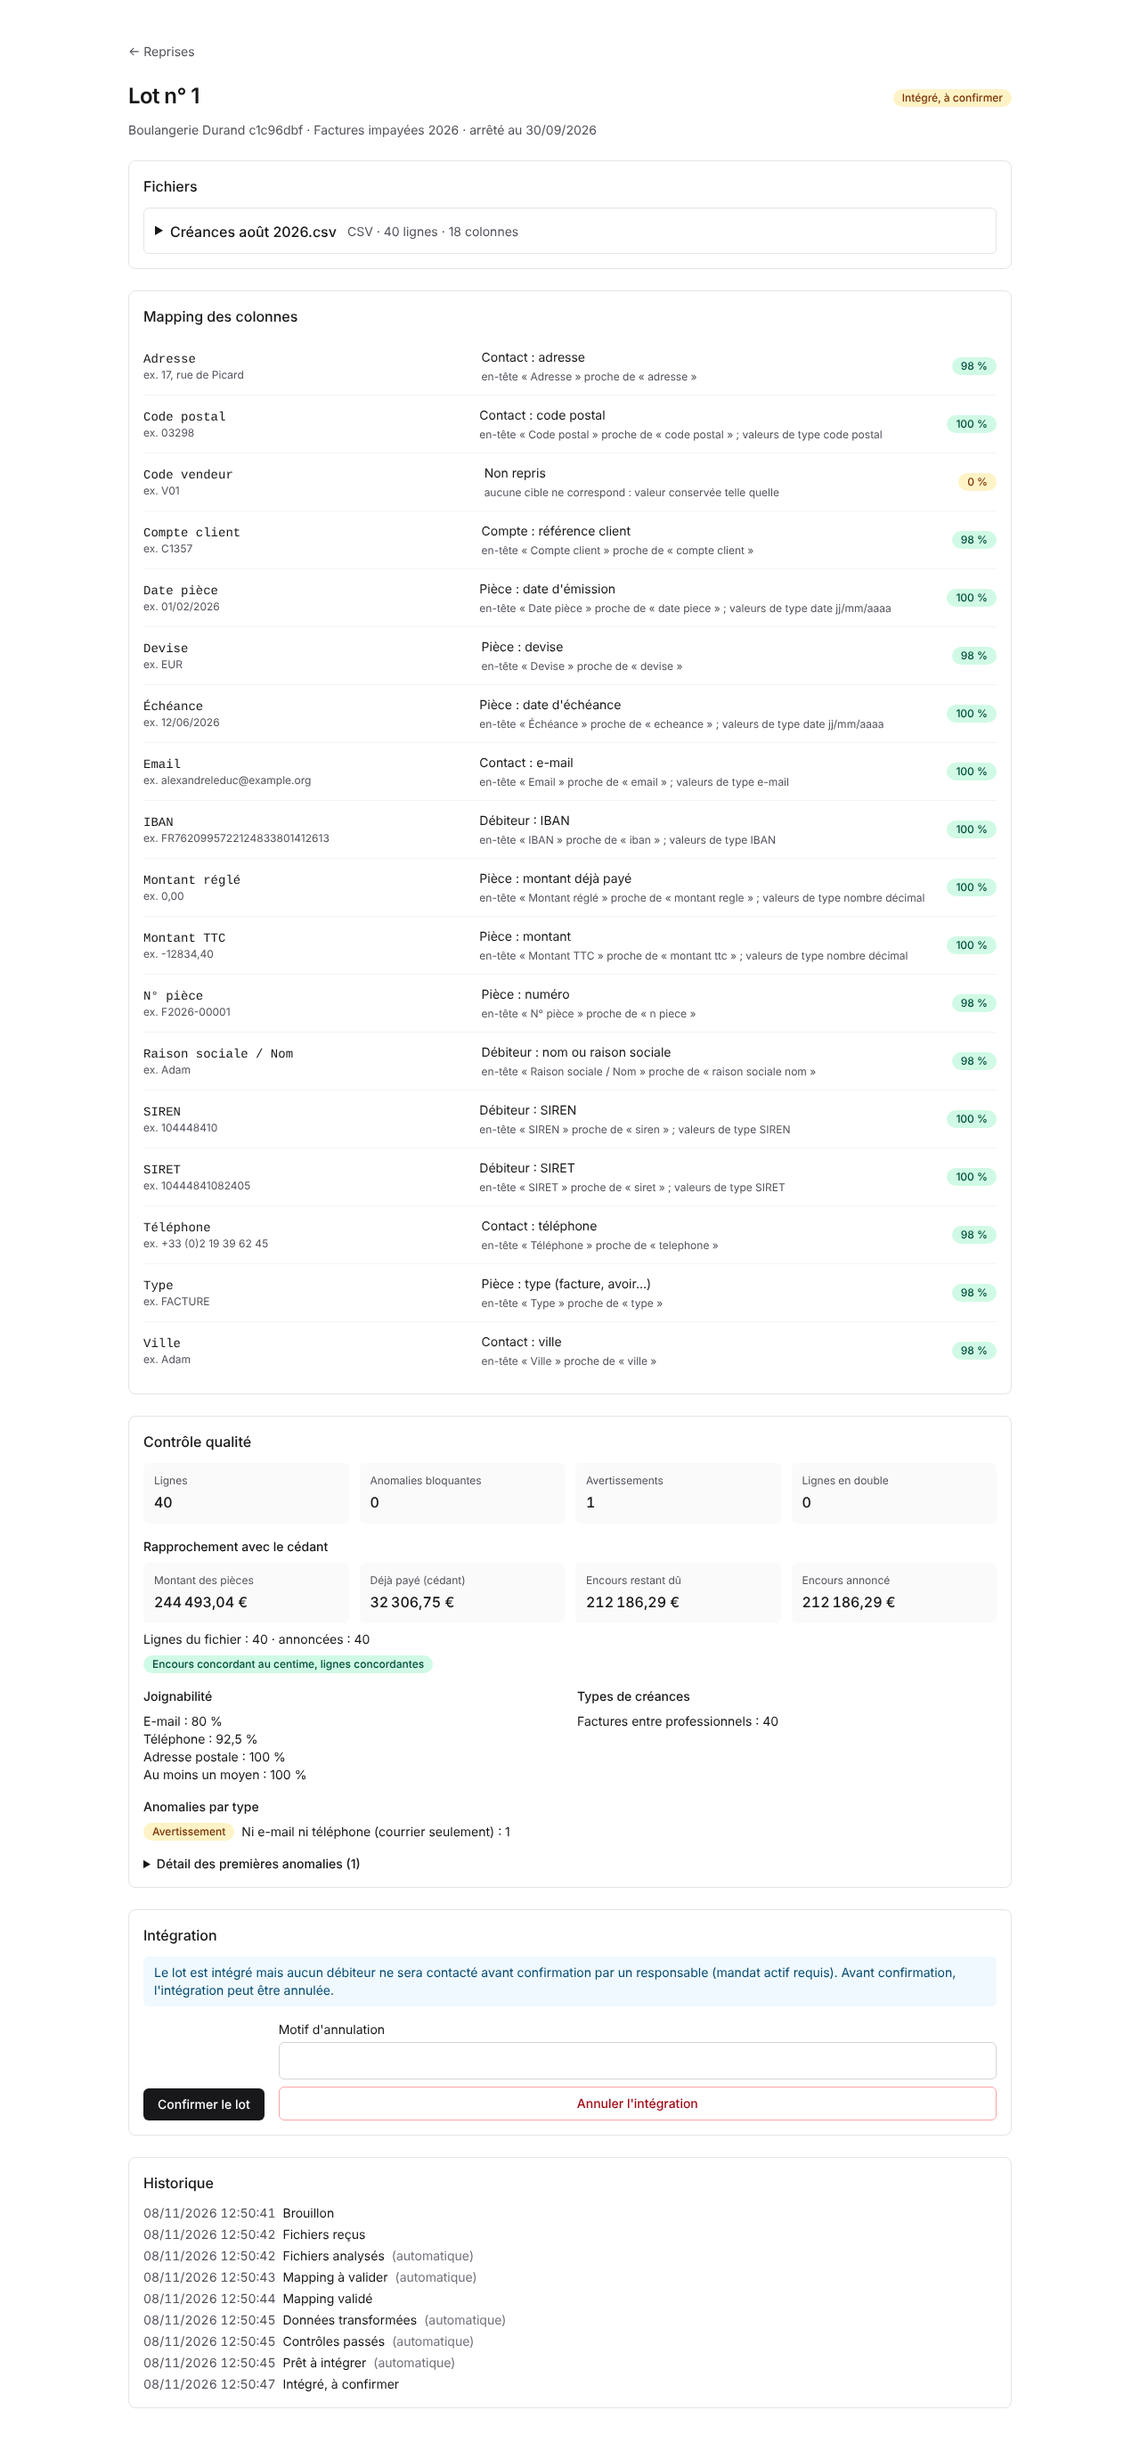
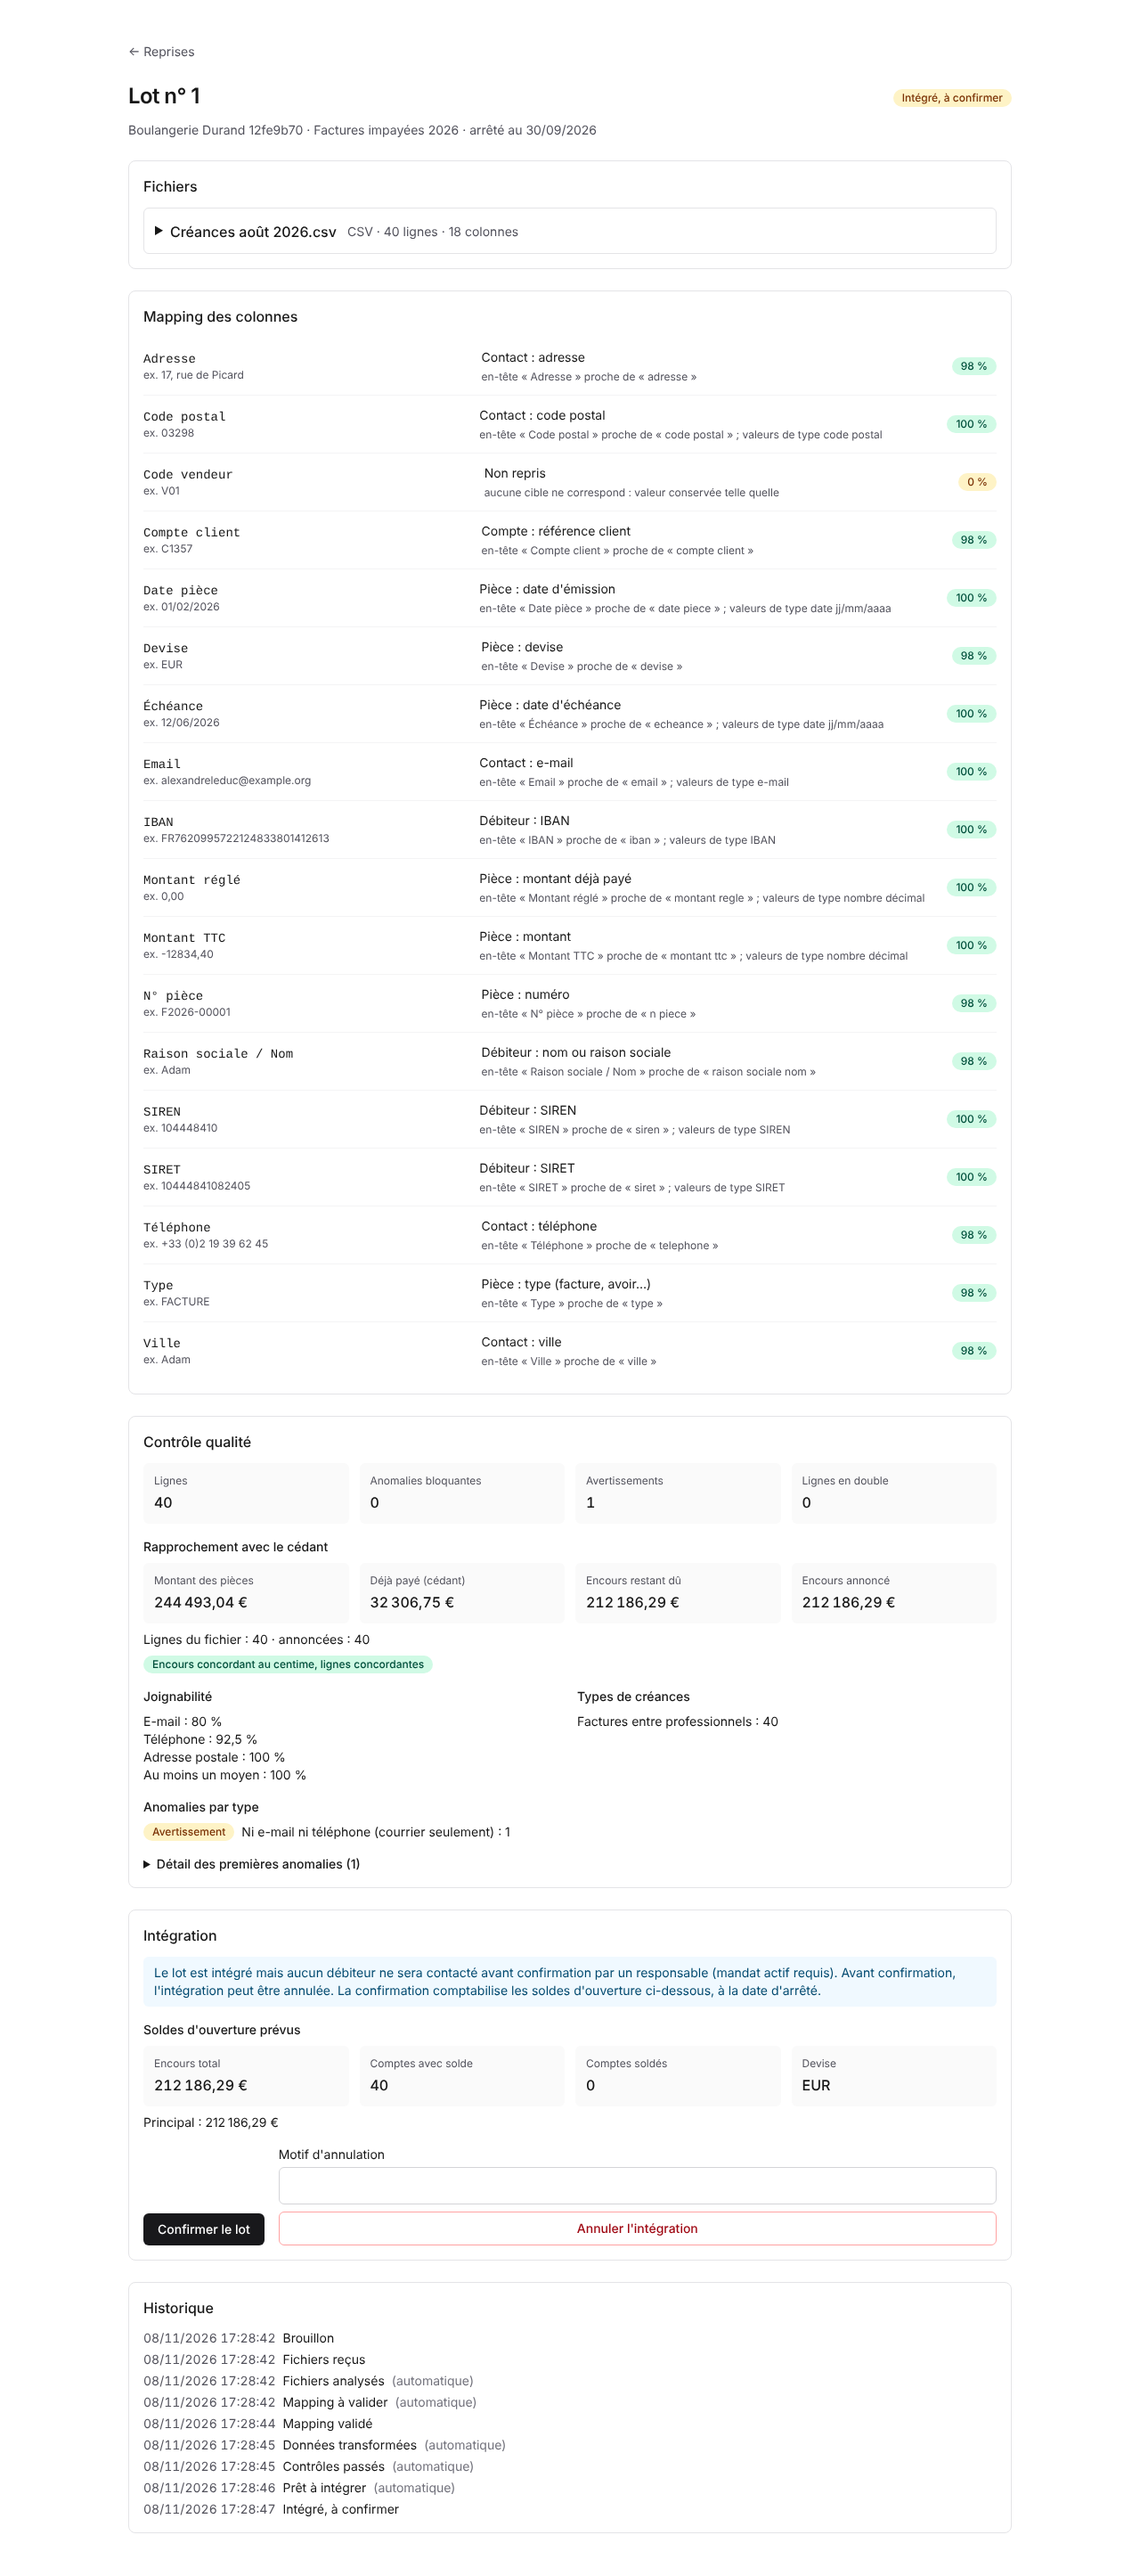
M2a-2: E2E screenshots (opening plan, confirmed batch), 50k benchmark figures
Claude-Session: https://claude.ai/code/session_01FxRQS6WSwQH1ctn7nhDETM

diff --git a/worker/tests/test_scale_integration.py b/worker/tests/test_scale_integration.py
@@ -1,7 +1,8 @@
 """M1-21: a 50,000-loan synthetic EU-template tape boarded end to end (needs `make up`).
 
 Upload -> profile -> mapping proposal (mock) -> approval -> transform + validate -> staging ->
-commit. Runs in the CI database job; target: well under 5 minutes.
+commit -> confirmation (opening balances posted by the worker, M2-05). Runs in the CI database
+job; target: well under 5 minutes (72 s locally, docs/benchmarks/boarding.md).
 """
 
 import json

diff --git a/docs/benchmarks/boarding.md b/docs/benchmarks/boarding.md
@@ -45,8 +45,25 @@ The largest remaining peak is profiling the 330 MB T3 file.
 
 `worker/tests/test_scale_integration.py` boards 50,000 loans (53,533 counterparties) through the
 real stack: upload to Storage, queue, profile, mock mapping proposal, approval, transform and
-validation, staging, commit into Layer 2 and Layer 1. It runs in the CI `db` job and must finish
-in under 5 minutes. Local time: see the PR for the latest figure.
+validation, staging, commit into Layer 2 and Layer 1, then (M2-05) confirmation by the worker,
+which posts one opening entry per loan. It runs in the CI `db` job and must finish in under
+5 minutes.
+
+Local run, 2026-11-08 (M2a-2): 72 s in total; commit 19.7 s; confirmation job 23.0 s
+(50,000 opening entries, about 300,000 ledger lines, Σ posted = DQ outstanding to the cent).
+
+Two traps found on the way, both fixed:
+
+- `(jsonb_populate_record(...)).*` in a select list calls the function once per output column
+  (49 times per EU loan): 65 s of the commit. In `FROM ... cross join lateral` it runs once.
+- `LIMIT 1` on a check that normally finds nothing makes the planner bet on an early match and
+  pick nested loops. It cost 48 s in the source check at commit, and more than 10 minutes in
+  the ledger posting guard when a second 50k batch was confirmed before autovacuum had
+  analysed the first one. Checks now use aggregates (`min(...)`), and the per-entry balance
+  check runs with `enable_seqscan = off` (key lookups only).
+
+Commit still takes ~20 s at 50k, above the 8 s limit of a request through the API: the next
+slice (M2a-3) runs it as a background job, like confirmation.
 
 ## Reproduce
 
